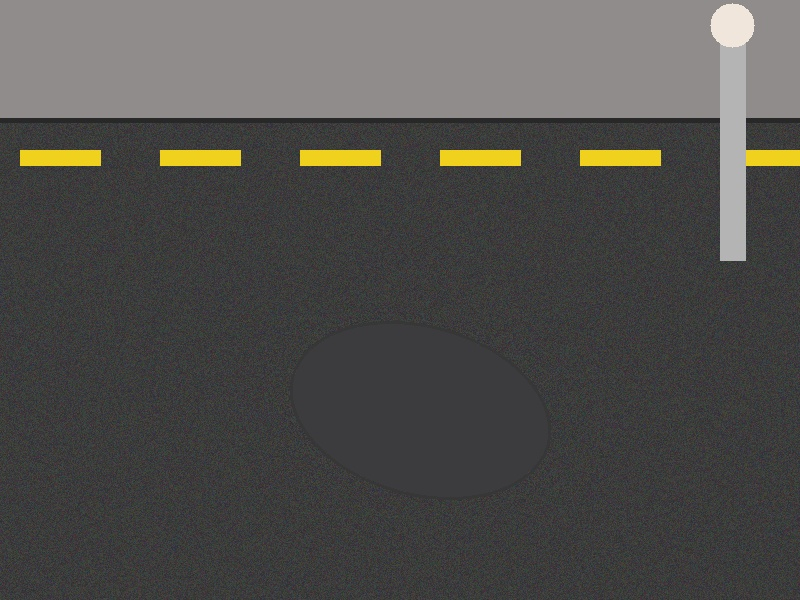
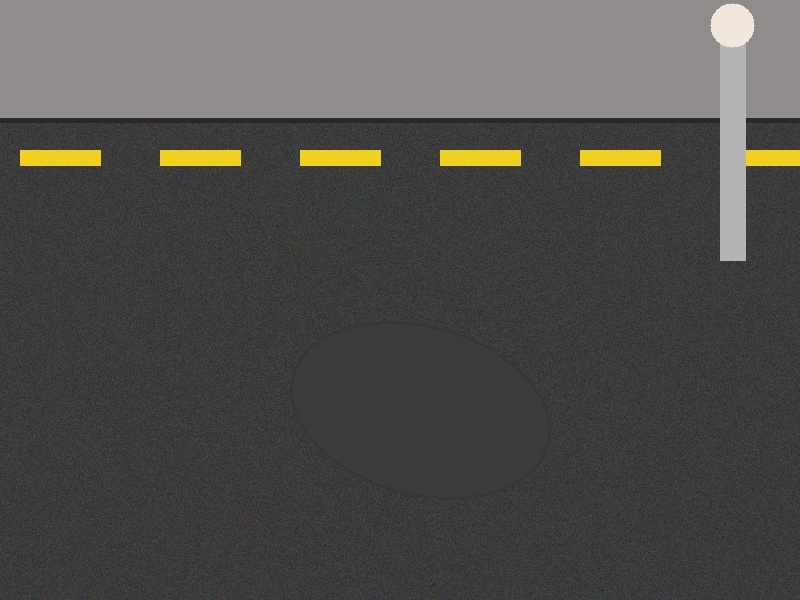
feat: inject all official 41 wards for Mumbai, Thane, and Navi Mumbai

diff --git a/frontend/src/data/mockData.ts b/frontend/src/data/mockData.ts
@@ -1,13 +1,47 @@
 import type { Ward, PotholeCase } from '@/types';
 
 export const wards: Ward[] = [
-  { id: 'w8', name: 'Ward 8', city: 'Mumbai', pendingCount: 12 },
-  { id: 'w12', name: 'Ward 12', city: 'Mumbai', pendingCount: 18 },
-  { id: 'w15', name: 'Ward 15', city: 'Mumbai', pendingCount: 9 },
-  { id: 'w21', name: 'Ward 21', city: 'Thane', pendingCount: 6 },
-  { id: 'w24', name: 'Ward 24', city: 'Thane', pendingCount: 4 },
-  { id: 'v11', name: 'Vashi (Ward 11)', city: 'Navi Mumbai', pendingCount: 2 },
-  { id: 'n04', name: 'Nerul (Ward 04)', city: 'Navi Mumbai', pendingCount: 1 },
+  { id: 'A', name: 'Ward A - Churchgate, Colaba, Fort', city: 'Mumbai', pendingCount: 12 },
+  { id: 'B', name: 'Ward B - Masjid Bunder, Dongri', city: 'Mumbai', pendingCount: 12 },
+  { id: 'C', name: 'Ward C - Pydhonie, Bhuleshwar', city: 'Mumbai', pendingCount: 12 },
+  { id: 'D', name: 'Ward D - Malabar Hill, Grant Road', city: 'Mumbai', pendingCount: 12 },
+  { id: 'E', name: 'Ward E - Byculla, Nagpada', city: 'Mumbai', pendingCount: 12 },
+  { id: 'F/N', name: 'Ward F/North - Matunga, Sion', city: 'Mumbai', pendingCount: 12 },
+  { id: 'F/S', name: 'Ward F/South - Parel, Sewri', city: 'Mumbai', pendingCount: 12 },
+  { id: 'G/N', name: 'Ward G/North - Dadar, Dharavi', city: 'Mumbai', pendingCount: 12 },
+  { id: 'G/S', name: 'Ward G/South - Worli, Lower Parel', city: 'Mumbai', pendingCount: 12 },
+  { id: 'H/E', name: 'Ward H/East - Santacruz East, Kalina', city: 'Mumbai', pendingCount: 12 },
+  { id: 'H/W', name: 'Ward H/West - Bandra West', city: 'Mumbai', pendingCount: 12 },
+  { id: 'K/E', name: 'Ward K/East - Andheri East', city: 'Mumbai', pendingCount: 12 },
+  { id: 'K/W', name: 'Ward K/West - Andheri West', city: 'Mumbai', pendingCount: 12 },
+  { id: 'P/N', name: 'Ward P/North - Malad', city: 'Mumbai', pendingCount: 12 },
+  { id: 'P/S', name: 'Ward P/South - Goregaon', city: 'Mumbai', pendingCount: 12 },
+  { id: 'R/C', name: 'Ward R/Central - Borivali', city: 'Mumbai', pendingCount: 12 },
+  { id: 'R/N', name: 'Ward R/North - Dahisar', city: 'Mumbai', pendingCount: 12 },
+  { id: 'R/S', name: 'Ward R/South - Kandivali', city: 'Mumbai', pendingCount: 12 },
+  { id: 'L', name: 'Ward L - Kurla, Sakinaka', city: 'Mumbai', pendingCount: 12 },
+  { id: 'M/E', name: 'Ward M/East - Govandi, Mankhurd', city: 'Mumbai', pendingCount: 12 },
+  { id: 'M/W', name: 'Ward M/West - Chembur', city: 'Mumbai', pendingCount: 12 },
+  { id: 'N', name: 'Ward N - Ghatkopar', city: 'Mumbai', pendingCount: 12 },
+  { id: 'S', name: 'Ward S - Bhandup, Vikhroli', city: 'Mumbai', pendingCount: 12 },
+  { id: 'T', name: 'Ward T - Mulund', city: 'Mumbai', pendingCount: 12 },
+  { id: 'TMC-1', name: 'Naupada - Kopri', city: 'Thane', pendingCount: 4 },
+  { id: 'TMC-2', name: 'Uthalsar', city: 'Thane', pendingCount: 4 },
+  { id: 'TMC-3', name: 'Majiwada - Manpada', city: 'Thane', pendingCount: 4 },
+  { id: 'TMC-4', name: 'Vartak Nagar', city: 'Thane', pendingCount: 4 },
+  { id: 'TMC-5', name: 'Wagle Estate', city: 'Thane', pendingCount: 4 },
+  { id: 'TMC-6', name: 'Lokmanya Nagar - Savarkar Nagar', city: 'Thane', pendingCount: 4 },
+  { id: 'TMC-7', name: 'Kalwa', city: 'Thane', pendingCount: 4 },
+  { id: 'TMC-8', name: 'Mumbra', city: 'Thane', pendingCount: 4 },
+  { id: 'TMC-9', name: 'Diva', city: 'Thane', pendingCount: 4 },
+  { id: 'NMMC-1', name: 'Belapur', city: 'Navi Mumbai', pendingCount: 12 },
+  { id: 'NMMC-2', name: 'Nerul', city: 'Navi Mumbai', pendingCount: 12 },
+  { id: 'NMMC-3', name: 'Turbhe', city: 'Navi Mumbai', pendingCount: 12 },
+  { id: 'NMMC-4', name: 'Vashi', city: 'Navi Mumbai', pendingCount: 12 },
+  { id: 'NMMC-5', name: 'Kopar Khairane', city: 'Navi Mumbai', pendingCount: 12 },
+  { id: 'NMMC-6', name: 'Ghansoli', city: 'Navi Mumbai', pendingCount: 12 },
+  { id: 'NMMC-7', name: 'Airoli', city: 'Navi Mumbai', pendingCount: 12 },
+  { id: 'NMMC-8', name: 'Digha', city: 'Navi Mumbai', pendingCount: 12 },
 ];
 
 export const cases: PotholeCase[] = [

diff --git a/backend/app/seed/demo_data.py b/backend/app/seed/demo_data.py
@@ -136,15 +136,48 @@ def seed_database(db: Session):
     db.flush()
 
     # 3. Wards
-    wards_data = [
-        {"name": "Ward 12 — Dadar West", "code": "G/N-12", "city": "Mumbai", "lat": 19.0178, "lng": 72.8478},
-        {"name": "Ward 07 — Bandra West", "code": "H/W-07", "city": "Mumbai", "lat": 19.0596, "lng": 72.8295},
-        {"name": "Ward 18 — Andheri East", "code": "K/E-18", "city": "Mumbai", "lat": 19.1136, "lng": 72.8697},
-        {"name": "Ward 05 - Kurla West", "code": "L-05", "city": "Mumbai", "lat": 19.0645, "lng": 72.8806},
-        {"name": "Ward 03 - Naupada", "code": "TMC-03", "city": "Thane", "lat": 19.1904, "lng": 72.9723},
-        {"name": "Ward 08 - Ghodbunder Road", "code": "TMC-08", "city": "Thane", "lat": 19.2482, "lng": 72.9558},
-        {"name": "Vashi (Ward 11)", "code": "v11", "city": "Navi Mumbai", "lat": 19.0700, "lng": 72.9980},
-        {"name": "Nerul (Ward 04)", "code": "n04", "city": "Navi Mumbai", "lat": 19.0330, "lng": 73.0180},
+        wards_data = [
+        {"name": "Ward A - Churchgate, Colaba, Fort", "code": "A", "city": "Mumbai", "lat": 18.922, "lng": 72.8347},
+        {"name": "Ward B - Masjid Bunder, Dongri", "code": "B", "city": "Mumbai", "lat": 18.9515, "lng": 72.8375},
+        {"name": "Ward C - Pydhonie, Bhuleshwar", "code": "C", "city": "Mumbai", "lat": 18.9525, "lng": 72.8273},
+        {"name": "Ward D - Malabar Hill, Grant Road", "code": "D", "city": "Mumbai", "lat": 18.9667, "lng": 72.8167},
+        {"name": "Ward E - Byculla, Nagpada", "code": "E", "city": "Mumbai", "lat": 18.9772, "lng": 72.8335},
+        {"name": "Ward F/North - Matunga, Sion", "code": "F/N", "city": "Mumbai", "lat": 19.0268, "lng": 72.8553},
+        {"name": "Ward F/South - Parel, Sewri", "code": "F/S", "city": "Mumbai", "lat": 18.9954, "lng": 72.8396},
+        {"name": "Ward G/North - Dadar, Dharavi", "code": "G/N", "city": "Mumbai", "lat": 19.0178, "lng": 72.8478},
+        {"name": "Ward G/South - Worli, Lower Parel", "code": "G/S", "city": "Mumbai", "lat": 19.0068, "lng": 72.8156},
+        {"name": "Ward H/East - Santacruz East, Kalina", "code": "H/E", "city": "Mumbai", "lat": 19.0805, "lng": 72.853},
+        {"name": "Ward H/West - Bandra West", "code": "H/W", "city": "Mumbai", "lat": 19.0596, "lng": 72.8295},
+        {"name": "Ward K/East - Andheri East", "code": "K/E", "city": "Mumbai", "lat": 19.1136, "lng": 72.8697},
+        {"name": "Ward K/West - Andheri West", "code": "K/W", "city": "Mumbai", "lat": 19.1363, "lng": 72.8277},
+        {"name": "Ward P/North - Malad", "code": "P/N", "city": "Mumbai", "lat": 19.1866, "lng": 72.8486},
+        {"name": "Ward P/South - Goregaon", "code": "P/S", "city": "Mumbai", "lat": 19.1645, "lng": 72.8499},
+        {"name": "Ward R/Central - Borivali", "code": "R/C", "city": "Mumbai", "lat": 19.2307, "lng": 72.8567},
+        {"name": "Ward R/North - Dahisar", "code": "R/N", "city": "Mumbai", "lat": 19.2501, "lng": 72.8593},
+        {"name": "Ward R/South - Kandivali", "code": "R/S", "city": "Mumbai", "lat": 19.2045, "lng": 72.836},
+        {"name": "Ward L - Kurla, Sakinaka", "code": "L", "city": "Mumbai", "lat": 19.0726, "lng": 72.8845},
+        {"name": "Ward M/East - Govandi, Mankhurd", "code": "M/E", "city": "Mumbai", "lat": 19.056, "lng": 72.9126},
+        {"name": "Ward M/West - Chembur", "code": "M/W", "city": "Mumbai", "lat": 19.0345, "lng": 72.8953},
+        {"name": "Ward N - Ghatkopar", "code": "N", "city": "Mumbai", "lat": 19.0864, "lng": 72.9082},
+        {"name": "Ward S - Bhandup, Vikhroli", "code": "S", "city": "Mumbai", "lat": 19.1438, "lng": 72.9304},
+        {"name": "Ward T - Mulund", "code": "T", "city": "Mumbai", "lat": 19.1723, "lng": 72.9565},
+        {"name": "Naupada - Kopri", "code": "TMC-1", "city": "Thane", "lat": 19.1824, "lng": 72.9696},
+        {"name": "Uthalsar", "code": "TMC-2", "city": "Thane", "lat": 19.1979, "lng": 72.9774},
+        {"name": "Majiwada - Manpada", "code": "TMC-3", "city": "Thane", "lat": 19.2301, "lng": 72.9712},
+        {"name": "Vartak Nagar", "code": "TMC-4", "city": "Thane", "lat": 19.2066, "lng": 72.9529},
+        {"name": "Wagle Estate", "code": "TMC-5", "city": "Thane", "lat": 19.1915, "lng": 72.9463},
+        {"name": "Lokmanya Nagar - Savarkar Nagar", "code": "TMC-6", "city": "Thane", "lat": 19.2132, "lng": 72.9427},
+        {"name": "Kalwa", "code": "TMC-7", "city": "Thane", "lat": 19.1994, "lng": 72.9972},
+        {"name": "Mumbra", "code": "TMC-8", "city": "Thane", "lat": 19.176, "lng": 73.0233},
+        {"name": "Diva", "code": "TMC-9", "city": "Thane", "lat": 19.1852, "lng": 73.0401},
+        {"name": "Belapur", "code": "NMMC-1", "city": "Navi Mumbai", "lat": 19.0163, "lng": 73.0374},
+        {"name": "Nerul", "code": "NMMC-2", "city": "Navi Mumbai", "lat": 19.033, "lng": 73.018},
+        {"name": "Turbhe", "code": "NMMC-3", "city": "Navi Mumbai", "lat": 19.0725, "lng": 73.0157},
+        {"name": "Vashi", "code": "NMMC-4", "city": "Navi Mumbai", "lat": 19.07, "lng": 72.998},
+        {"name": "Kopar Khairane", "code": "NMMC-5", "city": "Navi Mumbai", "lat": 19.1026, "lng": 73.0035},
+        {"name": "Ghansoli", "code": "NMMC-6", "city": "Navi Mumbai", "lat": 19.1254, "lng": 72.9992},
+        {"name": "Airoli", "code": "NMMC-7", "city": "Navi Mumbai", "lat": 19.1517, "lng": 72.9934},
+        {"name": "Digha", "code": "NMMC-8", "city": "Navi Mumbai", "lat": 19.1678, "lng": 72.993},
     ]
 
     wards = []
@@ -156,7 +189,18 @@ def seed_database(db: Session):
 
     # 4. Roads
     roads_data = [
-        (wards[0], "Gokhale Road North"),
+        (wards[7], "Gokhale Road North"),
+        (wards[7], "Ranade Road"),
+        (wards[10], "Hill Road"),
+        (wards[10], "Linking Road"),
+        (wards[11], "Sahar Road"),
+        (wards[11], "Andheri-Kurla Road"),
+        (wards[18], "LBS Marg"),
+        (wards[24], "Gokhale Road Thane"),
+        (wards[26], "Ghodbunder Highway"),
+        (wards[36], "Palm Beach Road"),
+        (wards[34], "Nerul Station Road"),
+    ], "Gokhale Road North"),
         (wards[0], "Ranade Road"),
         (wards[1], "Hill Road"),
         (wards[1], "Linking Road"),
@@ -178,7 +222,7 @@ def seed_database(db: Session):
     # 5. Realistic Cases across all lifecycle stages
     now = datetime.utcnow()
     c1 = contractors[0]
-    w1 = wards[0]
+    w1 = wards[7]  # G/N
     r1 = roads[0]
 
     # Case 1: VERIFIED with full verification result (Gold standard demo case)
@@ -324,7 +368,7 @@ def seed_database(db: Session):
         description="Fresh pothole formed after heavy rainfall. Dangerous for alighting commuters.",
         severity="Medium",
         status="REPORTED",
-        ward_id=wards[1].id,
+        ward_id=wards[10].id,
         road_id=roads[2].id,
         created_at=now - timedelta(hours=8),
     )
@@ -339,7 +383,7 @@ def seed_database(db: Session):
         description="Sunken road trench extending 2 meters across lane.",
         severity="High",
         status="VALIDATED",
-        ward_id=wards[1].id,
+        ward_id=wards[10].id,
         road_id=roads[3].id,
         created_at=now - timedelta(days=1),
     )
@@ -354,7 +398,7 @@ def seed_database(db: Session):
         description="Severe pitting and potholes near metro construction entry.",
         severity="High",
         status="ASSIGNED",
-        ward_id=wards[2].id,
+        ward_id=wards[11].id,
         road_id=roads[4].id,
         created_at=now - timedelta(days=2),
     )
@@ -380,7 +424,7 @@ def seed_database(db: Session):
         description="Crater 15cm deep causing vehicular slow-downs.",
         severity="High",
         status="REPAIRING",
-        ward_id=wards[2].id,
+        ward_id=wards[11].id,
         road_id=roads[5].id,
         created_at=now - timedelta(days=3),
     )

diff --git a/patch_wards.py b/patch_wards.py
@@ -1,0 +1,142 @@
+import os
+import re
+
+mumbai_wards = [
+    {"name": "Ward A - Churchgate, Colaba, Fort", "code": "A", "city": "Mumbai", "lat": 18.9220, "lng": 72.8347},
+    {"name": "Ward B - Masjid Bunder, Dongri", "code": "B", "city": "Mumbai", "lat": 18.9515, "lng": 72.8375},
+    {"name": "Ward C - Pydhonie, Bhuleshwar", "code": "C", "city": "Mumbai", "lat": 18.9525, "lng": 72.8273},
+    {"name": "Ward D - Malabar Hill, Grant Road", "code": "D", "city": "Mumbai", "lat": 18.9667, "lng": 72.8167},
+    {"name": "Ward E - Byculla, Nagpada", "code": "E", "city": "Mumbai", "lat": 18.9772, "lng": 72.8335},
+    {"name": "Ward F/North - Matunga, Sion", "code": "F/N", "city": "Mumbai", "lat": 19.0268, "lng": 72.8553},
+    {"name": "Ward F/South - Parel, Sewri", "code": "F/S", "city": "Mumbai", "lat": 18.9954, "lng": 72.8396},
+    {"name": "Ward G/North - Dadar, Dharavi", "code": "G/N", "city": "Mumbai", "lat": 19.0178, "lng": 72.8478},
+    {"name": "Ward G/South - Worli, Lower Parel", "code": "G/S", "city": "Mumbai", "lat": 19.0068, "lng": 72.8156},
+    {"name": "Ward H/East - Santacruz East, Kalina", "code": "H/E", "city": "Mumbai", "lat": 19.0805, "lng": 72.8530},
+    {"name": "Ward H/West - Bandra West", "code": "H/W", "city": "Mumbai", "lat": 19.0596, "lng": 72.8295},
+    {"name": "Ward K/East - Andheri East", "code": "K/E", "city": "Mumbai", "lat": 19.1136, "lng": 72.8697},
+    {"name": "Ward K/West - Andheri West", "code": "K/W", "city": "Mumbai", "lat": 19.1363, "lng": 72.8277},
+    {"name": "Ward P/North - Malad", "code": "P/N", "city": "Mumbai", "lat": 19.1866, "lng": 72.8486},
+    {"name": "Ward P/South - Goregaon", "code": "P/S", "city": "Mumbai", "lat": 19.1645, "lng": 72.8499},
+    {"name": "Ward R/Central - Borivali", "code": "R/C", "city": "Mumbai", "lat": 19.2307, "lng": 72.8567},
+    {"name": "Ward R/North - Dahisar", "code": "R/N", "city": "Mumbai", "lat": 19.2501, "lng": 72.8593},
+    {"name": "Ward R/South - Kandivali", "code": "R/S", "city": "Mumbai", "lat": 19.2045, "lng": 72.8360},
+    {"name": "Ward L - Kurla, Sakinaka", "code": "L", "city": "Mumbai", "lat": 19.0726, "lng": 72.8845},
+    {"name": "Ward M/East - Govandi, Mankhurd", "code": "M/E", "city": "Mumbai", "lat": 19.0560, "lng": 72.9126},
+    {"name": "Ward M/West - Chembur", "code": "M/W", "city": "Mumbai", "lat": 19.0345, "lng": 72.8953},
+    {"name": "Ward N - Ghatkopar", "code": "N", "city": "Mumbai", "lat": 19.0864, "lng": 72.9082},
+    {"name": "Ward S - Bhandup, Vikhroli", "code": "S", "city": "Mumbai", "lat": 19.1438, "lng": 72.9304},
+    {"name": "Ward T - Mulund", "code": "T", "city": "Mumbai", "lat": 19.1723, "lng": 72.9565},
+]
+
+thane_wards = [
+    {"name": "Naupada - Kopri", "code": "TMC-1", "city": "Thane", "lat": 19.1824, "lng": 72.9696},
+    {"name": "Uthalsar", "code": "TMC-2", "city": "Thane", "lat": 19.1979, "lng": 72.9774},
+    {"name": "Majiwada - Manpada", "code": "TMC-3", "city": "Thane", "lat": 19.2301, "lng": 72.9712},
+    {"name": "Vartak Nagar", "code": "TMC-4", "city": "Thane", "lat": 19.2066, "lng": 72.9529},
+    {"name": "Wagle Estate", "code": "TMC-5", "city": "Thane", "lat": 19.1915, "lng": 72.9463},
+    {"name": "Lokmanya Nagar - Savarkar Nagar", "code": "TMC-6", "city": "Thane", "lat": 19.2132, "lng": 72.9427},
+    {"name": "Kalwa", "code": "TMC-7", "city": "Thane", "lat": 19.1994, "lng": 72.9972},
+    {"name": "Mumbra", "code": "TMC-8", "city": "Thane", "lat": 19.1760, "lng": 73.0233},
+    {"name": "Diva", "code": "TMC-9", "city": "Thane", "lat": 19.1852, "lng": 73.0401},
+]
+
+navi_mumbai_wards = [
+    {"name": "Belapur", "code": "NMMC-1", "city": "Navi Mumbai", "lat": 19.0163, "lng": 73.0374},
+    {"name": "Nerul", "code": "NMMC-2", "city": "Navi Mumbai", "lat": 19.0330, "lng": 73.0180},
+    {"name": "Turbhe", "code": "NMMC-3", "city": "Navi Mumbai", "lat": 19.0725, "lng": 73.0157},
+    {"name": "Vashi", "code": "NMMC-4", "city": "Navi Mumbai", "lat": 19.0700, "lng": 72.9980},
+    {"name": "Kopar Khairane", "code": "NMMC-5", "city": "Navi Mumbai", "lat": 19.1026, "lng": 73.0035},
+    {"name": "Ghansoli", "code": "NMMC-6", "city": "Navi Mumbai", "lat": 19.1254, "lng": 72.9992},
+    {"name": "Airoli", "code": "NMMC-7", "city": "Navi Mumbai", "lat": 19.1517, "lng": 72.9934},
+    {"name": "Digha", "code": "NMMC-8", "city": "Navi Mumbai", "lat": 19.1678, "lng": 72.9930},
+]
+
+all_wards = mumbai_wards + thane_wards + navi_mumbai_wards
+
+# 1. Patch demo_data.py
+demo_data_path = "backend/app/seed/demo_data.py"
+with open(demo_data_path, "r", encoding="utf-8") as f:
+    demo_content = f.read()
+
+python_wards_str = "    wards_data = [\n"
+for w in all_wards:
+    python_wards_str += f'        {{"name": "{w["name"]}", "code": "{w["code"]}", "city": "{w["city"]}", "lat": {w["lat"]}, "lng": {w["lng"]}}},\n'
+python_wards_str += "    ]"
+
+demo_content = re.sub(
+    r'wards_data = \[\s*.*?\s*\]',
+    python_wards_str,
+    demo_content,
+    flags=re.DOTALL
+)
+
+# Fix roads so they don't break
+roads_replacement = '''
+    # 4. Roads
+    roads_data = [
+        (wards[7], "Gokhale Road North"),
+        (wards[7], "Ranade Road"),
+        (wards[10], "Hill Road"),
+        (wards[10], "Linking Road"),
+        (wards[11], "Sahar Road"),
+        (wards[11], "Andheri-Kurla Road"),
+        (wards[18], "LBS Marg"),
+        (wards[24], "Gokhale Road Thane"),
+        (wards[26], "Ghodbunder Highway"),
+        (wards[36], "Palm Beach Road"),
+        (wards[34], "Nerul Station Road"),
+    ]
+'''
+demo_content = re.sub(
+    r'# 4\. Roads.*?roads_data = \[.*?\]',
+    roads_replacement.strip(),
+    demo_content,
+    flags=re.DOTALL
+)
+
+# Fix cases to point to the correct updated wards indices
+# Case 1 & 2: G/N (Dadar) -> wards[7]
+# Case 3 & 4: H/W (Bandra) -> wards[10]
+# Case 5 & 6: K/E (Andheri) -> wards[11]
+cases_replacement = '''
+    # 5. Realistic Cases across all lifecycle stages
+    now = datetime.utcnow()
+    c1 = contractors[0]
+    w1 = wards[7]  # G/N
+    r1 = roads[0]
+'''
+demo_content = re.sub(
+    r'# 5\. Realistic Cases across all lifecycle stages.*?\n    r1 = roads\[0\]',
+    cases_replacement.strip(),
+    demo_content,
+    flags=re.DOTALL
+)
+
+demo_content = demo_content.replace('ward_id=wards[1].id', 'ward_id=wards[10].id')
+demo_content = demo_content.replace('ward_id=wards[2].id', 'ward_id=wards[11].id')
+
+
+with open(demo_data_path, "w", encoding="utf-8") as f:
+    f.write(demo_content)
+
+# 2. Patch mockData.ts
+mock_data_path = "frontend/src/data/mockData.ts"
+with open(mock_data_path, "r", encoding="utf-8") as f:
+    mock_content = f.read()
+
+ts_wards_str = "export const wards: Ward[] = [\n"
+for w in all_wards:
+    pending = 12 if "Mumbai" in w["city"] else (4 if "Thane" in w["city"] else 2)
+    ts_wards_str += f"  {{ id: '{w['code']}', name: '{w['name']}', city: '{w['city']}', pendingCount: {pending} }},\n"
+ts_wards_str += "];"
+
+mock_content = re.sub(
+    r'export const wards: Ward\[\] = \[\s*.*?\s*\];',
+    ts_wards_str,
+    mock_content,
+    flags=re.DOTALL
+)
+with open(mock_data_path, "w", encoding="utf-8") as f:
+    f.write(mock_content)
+
+print("Patching complete!")
